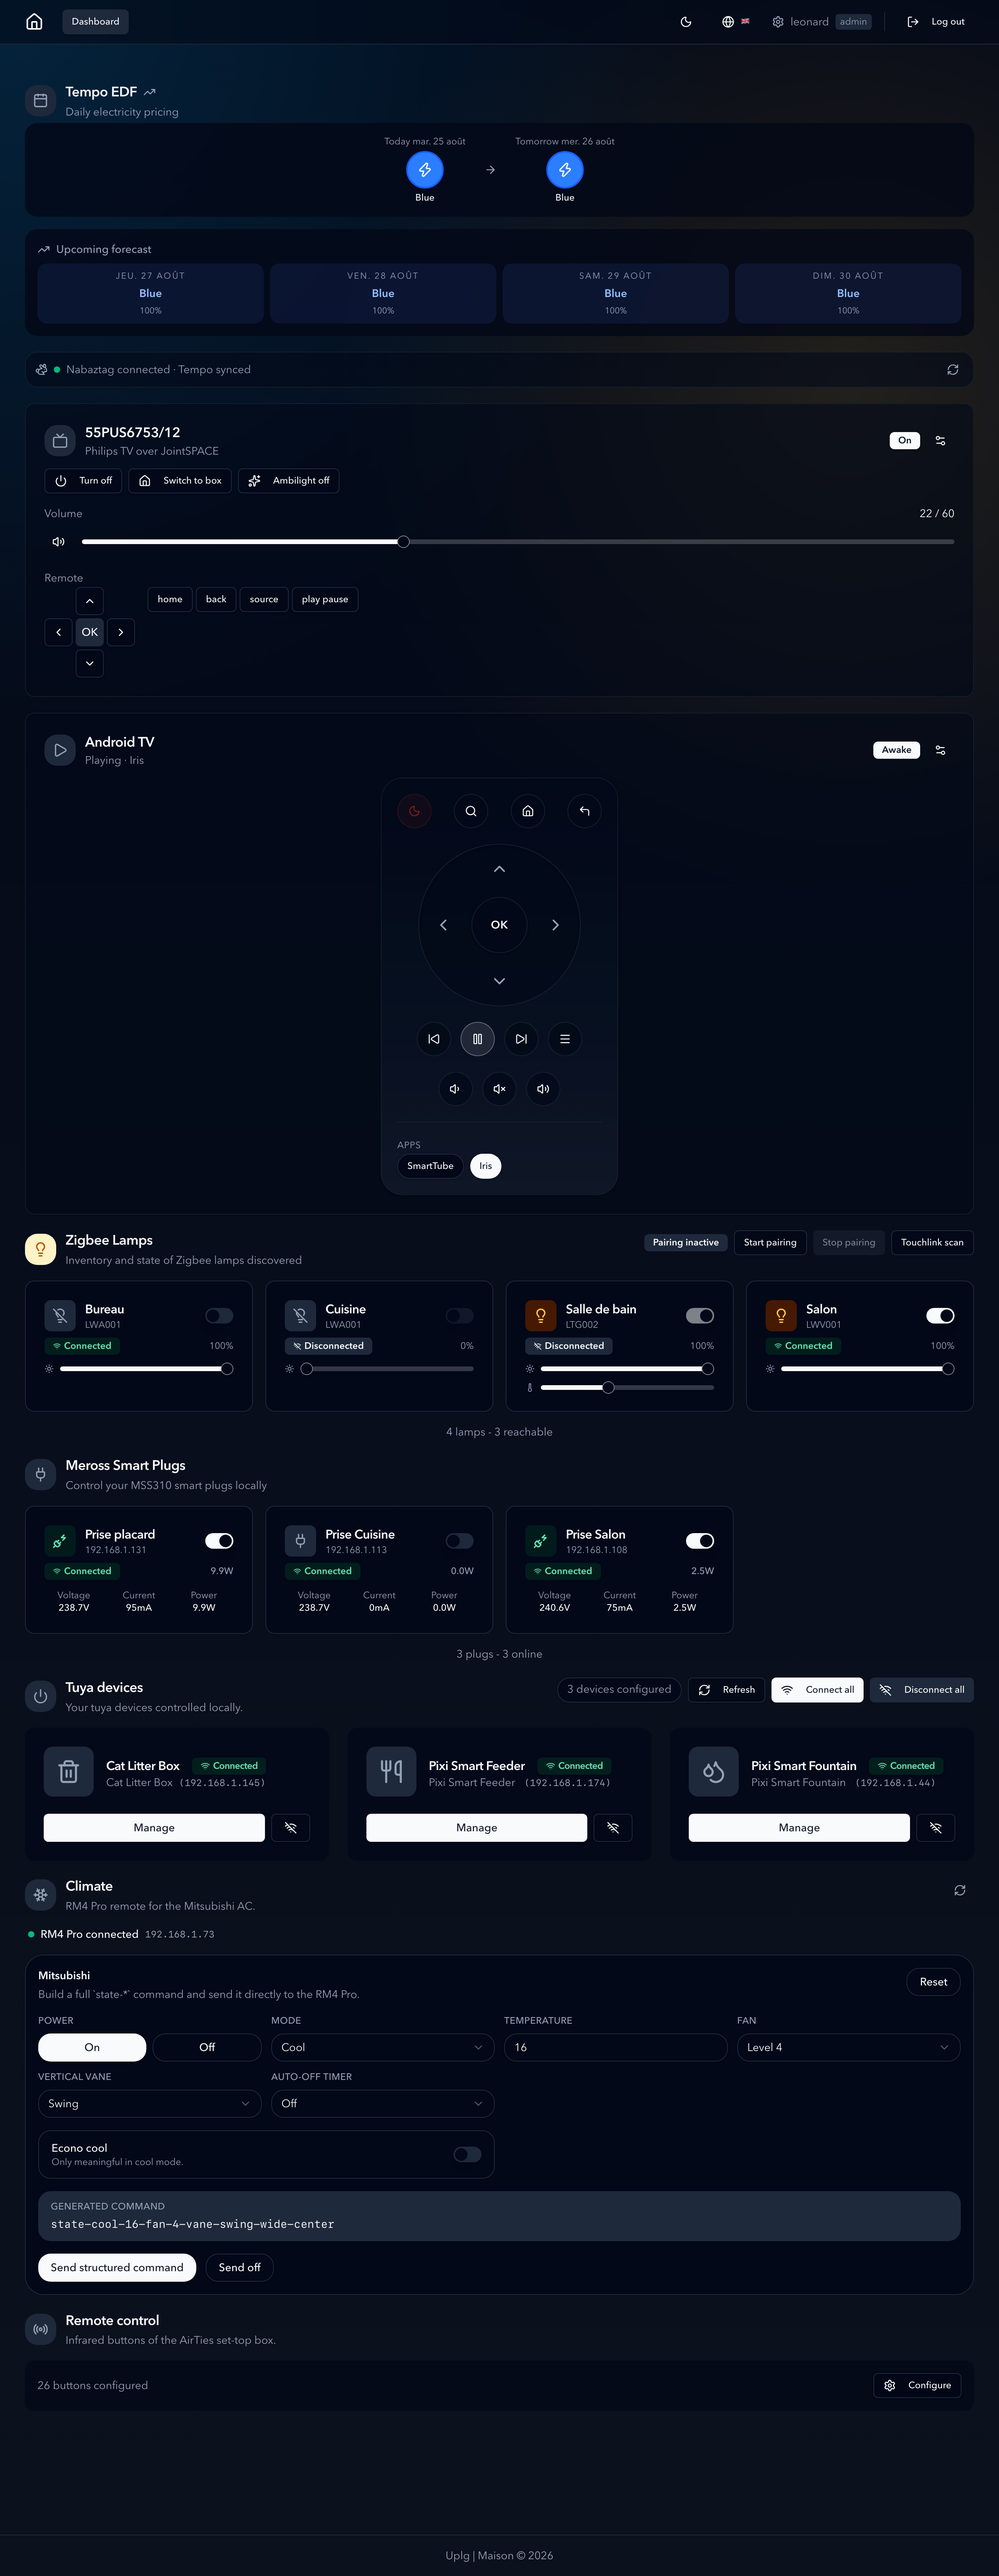
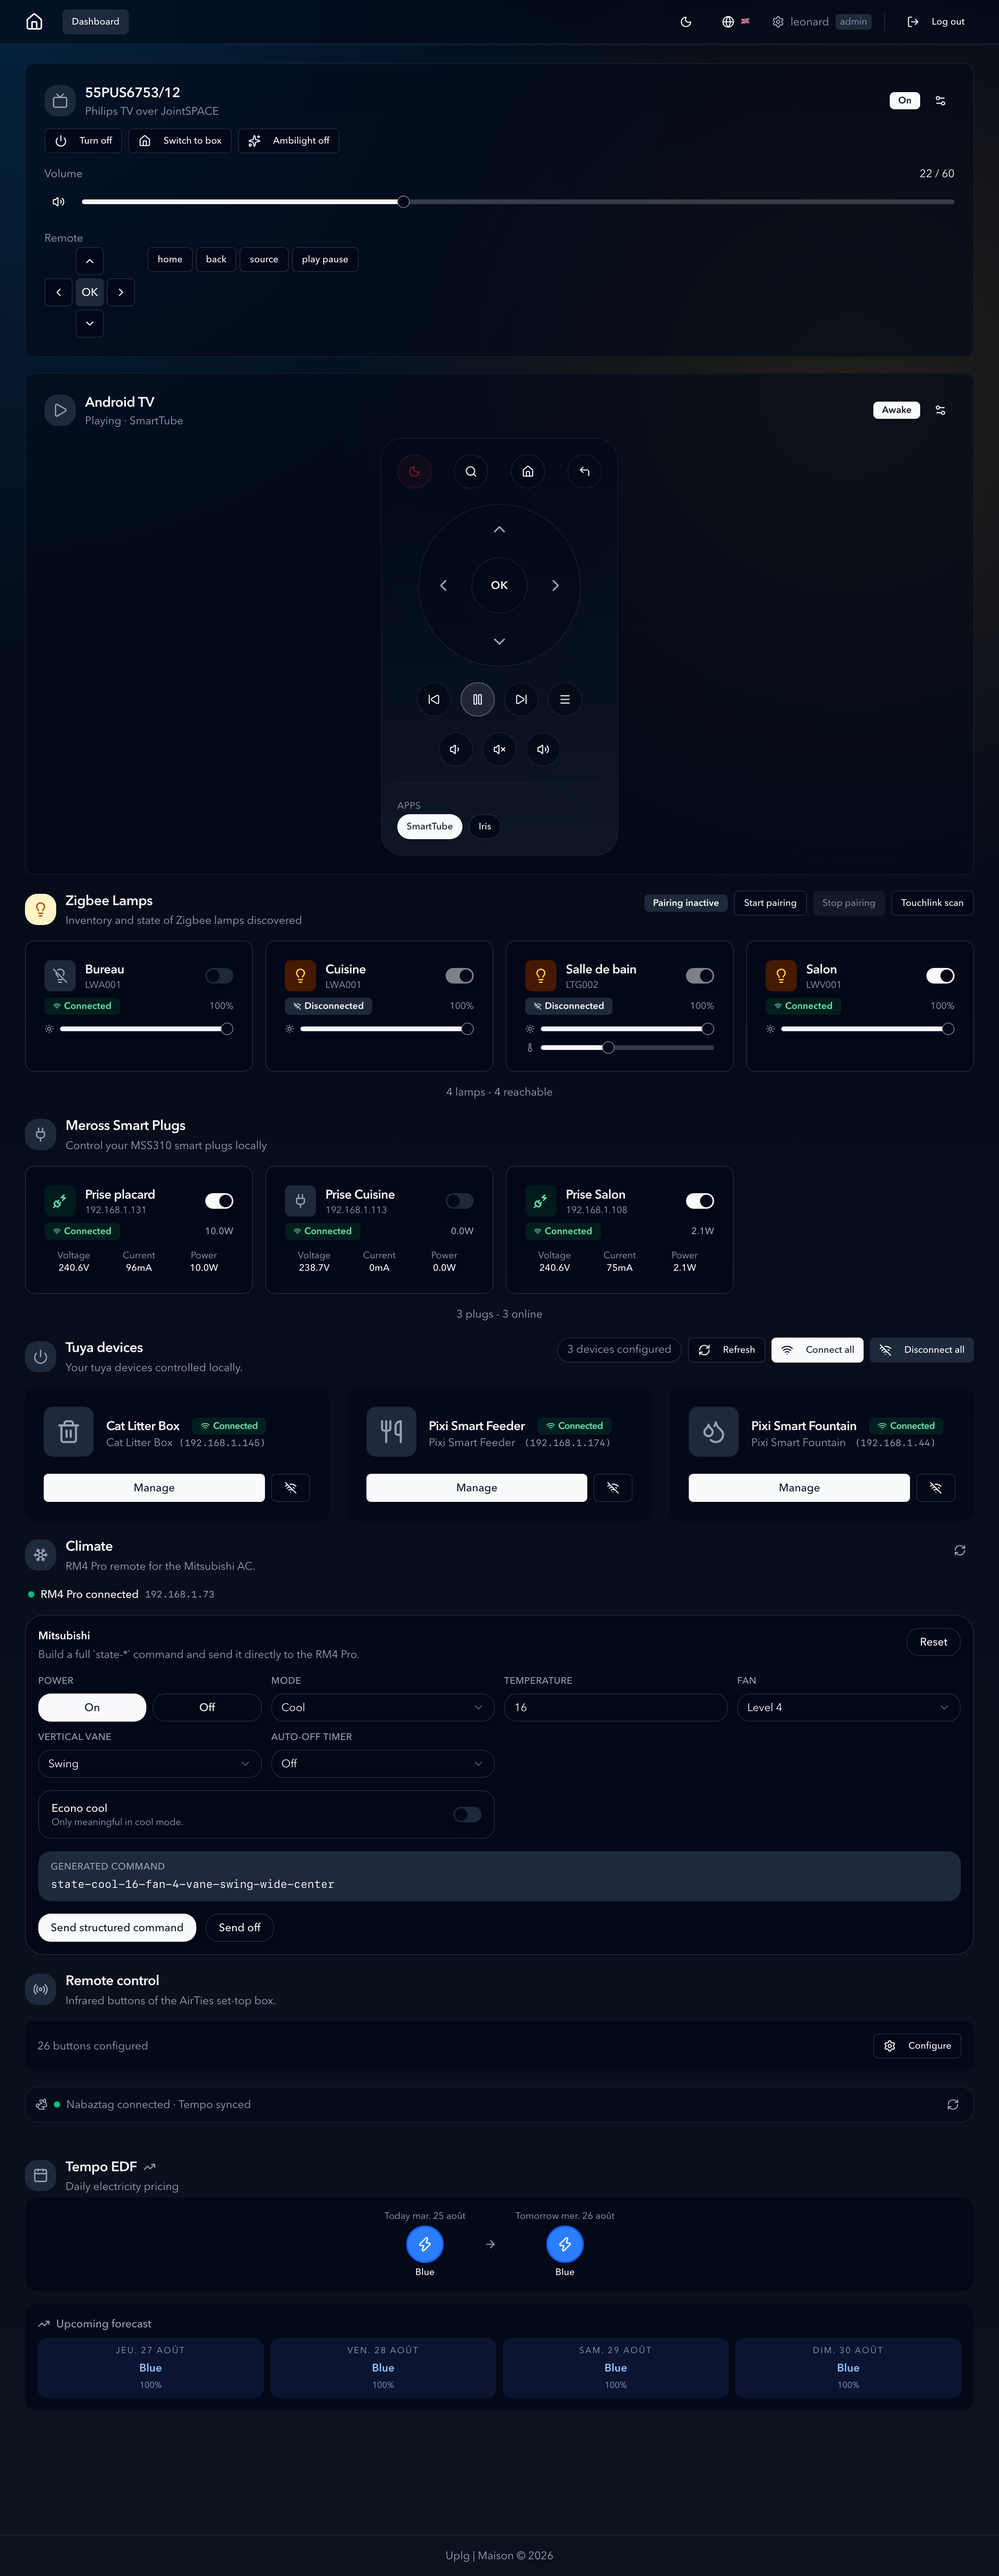
feat(ui): reorder the dashboard around what gets touched most
The remotes lead, TV then box, since they are the things reached for
daily. Tempo closes the page with the Nabaztag line just above it: both
are ambient readouts, glanced at rather than operated, and they were
pushing the interactive controls below the fold.

Screenshot refreshed to match.

diff --git a/frontend/src/pages/DashboardPage.tsx b/frontend/src/pages/DashboardPage.tsx
@@ -304,10 +304,6 @@ export function DashboardPage() {
 
   return (
     <div className="space-y-5">
-      <TempoCard />
-
-      <NabaztagTile />
-
       <TvControl />
 
       <AndroidTvRemote />
@@ -583,6 +579,10 @@ export function DashboardPage() {
           </CardContent>
         </Card>
       </section>
+
+      <NabaztagTile />
+
+      <TempoCard />
     </div>
   );
 }

diff --git a/README.md b/README.md
@@ -14,7 +14,7 @@
 - Drive the Android TV box (MECOOL LEAP-S1) from a proper on-screen remote — D-pad, media, volume, app shortcuts and APK sideloading — over a native ADB client. See "Android TV box" below.
 - Keep access private with local authentication and secure session cookies.
 
-![Maison](/screenshots/maison.jpg?v=1787691685)
+![Maison](/screenshots/maison.jpg?v=1787692439)
 
 Exposes only two app components:
 
